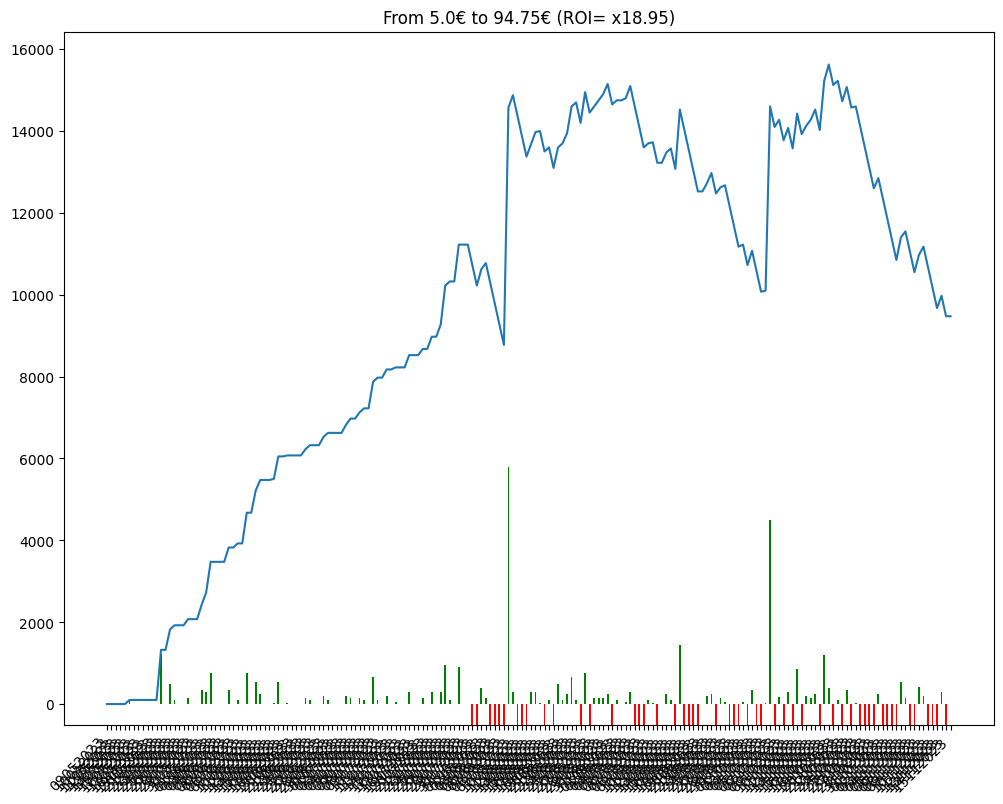
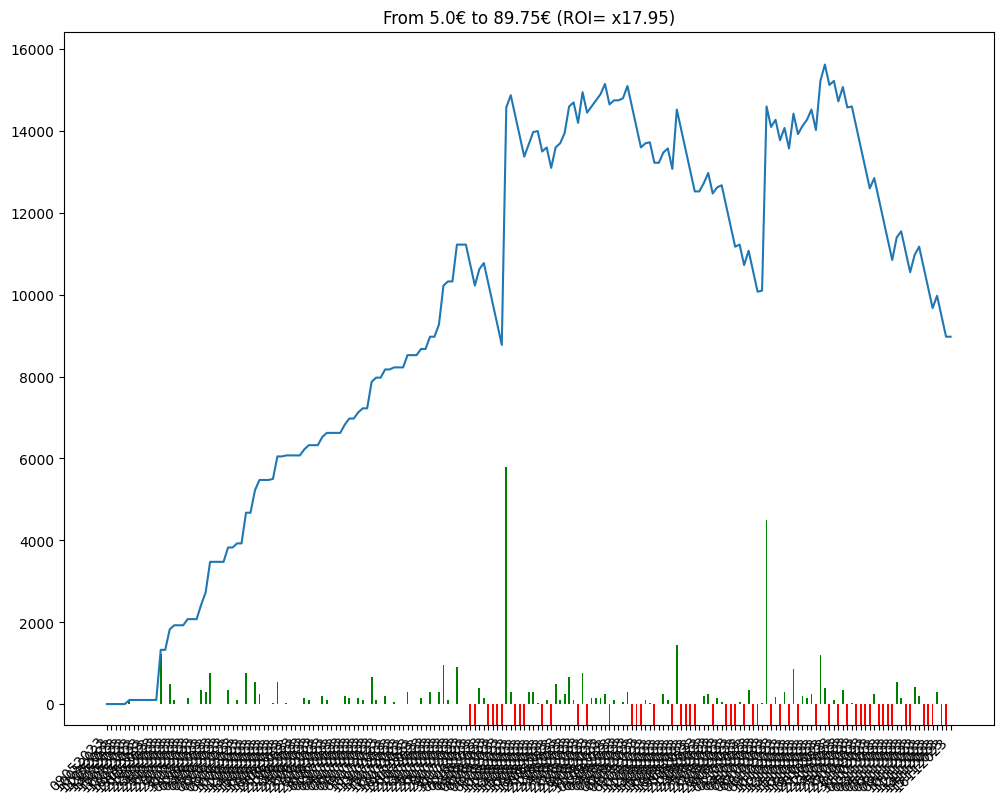
comment from python script

diff --git a/bethistory.html b/bethistory.html
@@ -86,7 +86,8 @@
             En observant la courbe 🤔, on peut avoir une idée visuelle de l'évolution des gains et ainsi évaluer le model utilisé 🧑🏫.
         </p>
         
-        <img src = "/candle.png" alt="candle chart"/><table><tr><td>Chevaux joués</td><td>Gains</td><td>URL Circuits</td></tr><tr><td>4 - SADAK</td><td>0</td><td><a href=https://www.pmu.fr/turf/15112023/r5/c7 target="_blank">https://www.pmu.fr/turf/15112023/r5/c7</a></td></tr>
+        <img src = "/candle.png" alt="candle chart"/><table><tr><td>Chevaux joués</td><td>Gains</td><td>URL Circuits</td></tr><tr><td>5 - PREMIERE ETOILE</td><td>0</td><td><a href=https://www.pmu.fr/turf/16112023/r3/c7 target="_blank">https://www.pmu.fr/turf/16112023/r3/c7</a></td></tr>
+<tr><td>4 - SADAK</td><td>-500</td><td><a href=https://www.pmu.fr/turf/15112023/r5/c7 target="_blank">https://www.pmu.fr/turf/15112023/r5/c7</a></td></tr>
 <tr><td>6 - QUEST THE MOON</td><td>-500</td><td><a href=https://www.pmu.fr/turf/14112023/r1/c3 target="_blank">https://www.pmu.fr/turf/14112023/r1/c3</a></td></tr>
 <tr><td>2 - TUMBLER</td><td>+300</td><td><a href=https://www.pmu.fr/turf/13112023/r3/c6 target="_blank">https://www.pmu.fr/turf/13112023/r3/c6</a></td></tr>
 <tr><td>2 - ALCARAZ</td><td>-500</td><td><a href=https://www.pmu.fr/turf/12112023/r3/c5 target="_blank">https://www.pmu.fr/turf/12112023/r3/c5</a></td></tr>
